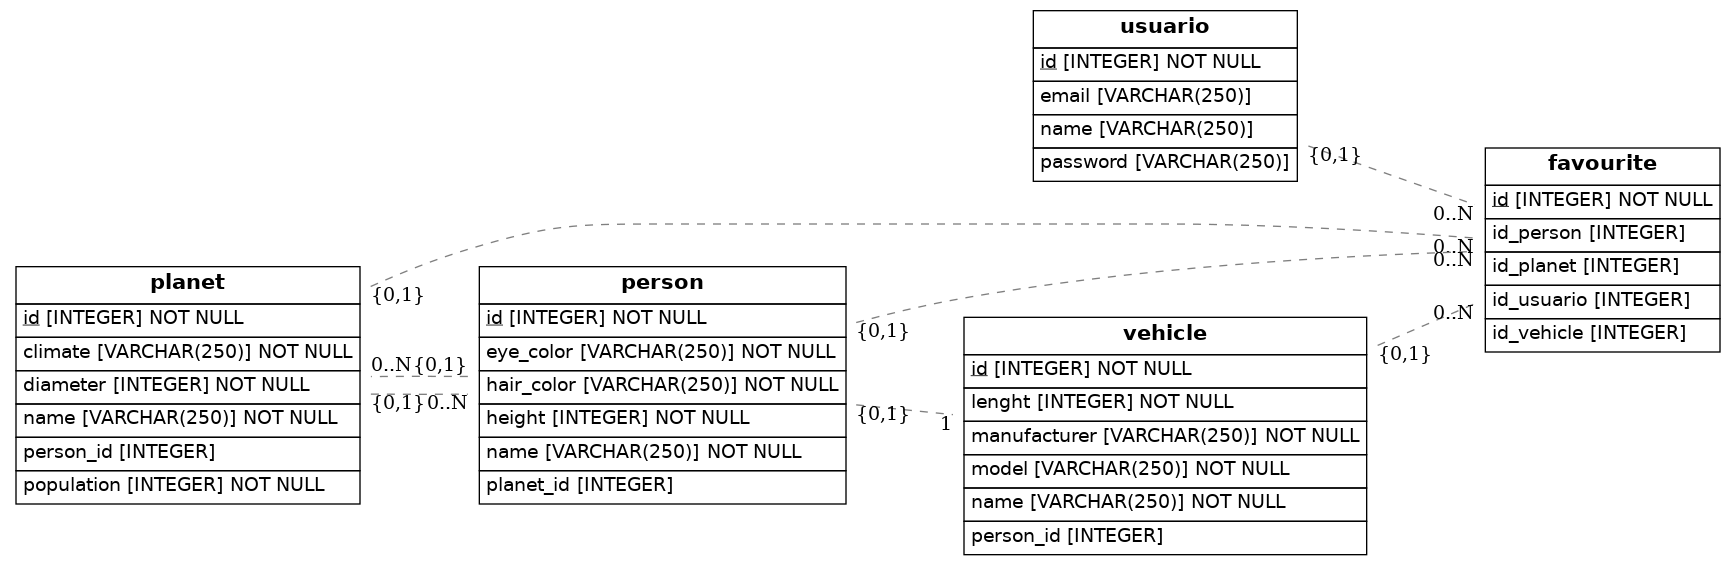
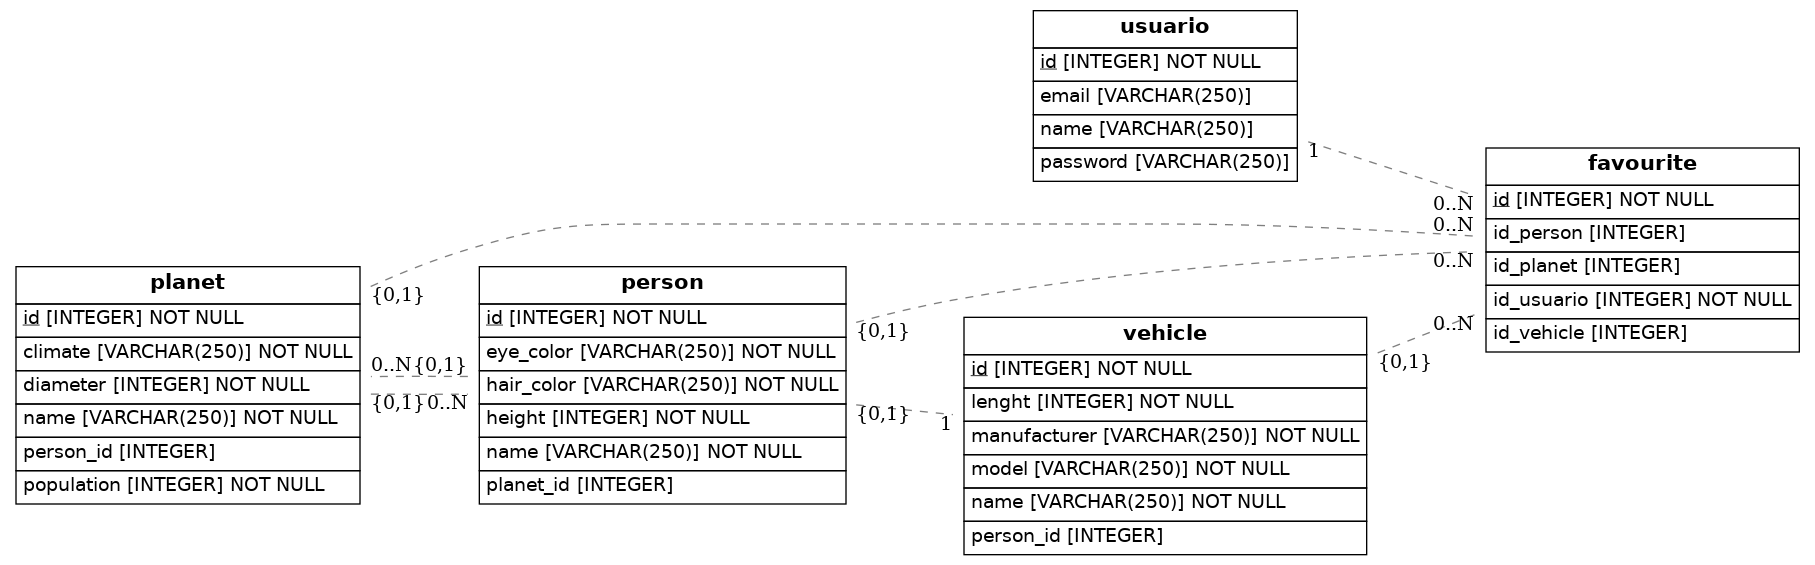
starwars-data-modeling

diff --git a/src/models.py b/src/models.py
@@ -60,7 +60,7 @@ class Favourite(Base):
     # Here we define columns for the table person
     # Notice that each column is also a normal Python instance attribute.
     id = Column(Integer, primary_key=True)
-    id_usuario= Column(Integer, ForeignKey('usuario.id'), nullable=True)
+    id_usuario= Column(Integer, ForeignKey('usuario.id'), nullable=False)
     id_person = Column(Integer, ForeignKey('person.id'), nullable=True)
     id_vehicle = Column(Integer, ForeignKey('vehicle.id'), nullable=True)
     id_planet= Column(Integer, ForeignKey('planet.id'), nullable=True)     
